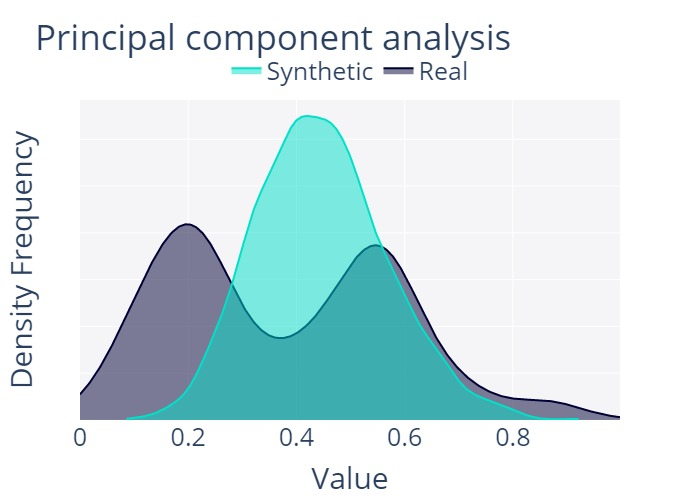
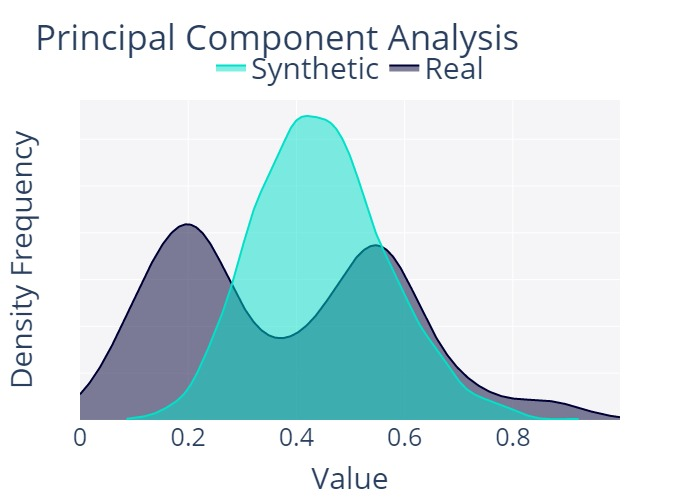
adjusted legend font

Changed region(s): [[0.27, 0.03, 0.75, 0.18]]

diff --git a/Diffusion model/graph_generate.py b/Diffusion model/graph_generate.py
@@ -55,9 +55,9 @@ column_name_map = {
     'ILP': 'Instruction-Level Parallelism',
     'intensity': 'Intensity',
     'reuse_ratio': 'Reuse Ratio',
-    'ld_coalesce': 'Load Coalesce',
-    'L2_hit_rate': 'L2 Cache Hit Rate',
-    'L1_hit_rate': 'L1 Cache Hit Rate',
+    'ld_coalesce': 'Load Coalescing',
+    'L2_hit_rate': 'L2 Hit Rate',
+    'L1_hit_rate': 'L1 Hit Rate',
     'branch_eff': 'Branch Efficiency',
     'pwr_avg': 'Average Power'
 }
@@ -77,7 +77,8 @@ fig.update_layout(
     plot_bgcolor='white', 
     paper_bgcolor='white', 
     font=dict(color='black', size=25),  
-    showlegend=False  
+    showlegend=True,
+    legend=dict(font=dict(size=20))  
 )
 
 
@@ -107,7 +108,8 @@ def fig_generator(feature):
             yanchor='bottom',
             y=1.02,
             xanchor='center',
-            x=0.5
+            x=0.5,
+            font=dict(size=30)
         ),
         yaxis=dict(
             showticklabels=False,  
@@ -131,7 +133,7 @@ sns.set_context("talk", font_scale=1.4)
 corr = synthetic_data.corr()
 plt.figure(figsize=(10, 8))
 sns.heatmap(corr, cmap='coolwarm',annot=False, cbar=False)
-plt.title('TabDDPM synthetic Data Correlation Heatmap', fontsize=25)
+plt.title('DDM Data Correlation Heatmap', fontsize=25)
 plt.tight_layout(rect=[0, 0, 1, 0.95]) 
 plt.savefig('figure/TabDDPM synthetic Data Correlation Heatmap.jpg')
 plt.close()

diff --git a/CTGAN Synthesizer/graph_generate.py b/CTGAN Synthesizer/graph_generate.py
@@ -17,9 +17,9 @@ column_name_map = {
     'ILP': 'Instruction-Level Parallelism',
     'intensity': 'Intensity',
     'reuse_ratio': 'Reuse Ratio',
-    'ld_coalesce': 'Load Coalescence',
-    'L2_hit_rate': 'L2 Cache Hit Rate',
-    'L1_hit_rate': 'L1 Cache Hit Rate',
+    'ld_coalesce': 'Load Coalescing',
+    'L2_hit_rate': 'L2 Hit Rate',
+    'L1_hit_rate': 'L1 Hit Rate',
     'branch_eff': 'Branch Efficiency',
     'pwr_avg': 'Average Power'
 }
@@ -85,7 +85,8 @@ def fig_generator(feature):
             yanchor='bottom',
             y=1.02,
             xanchor='center',
-            x=0.5
+            x=0.5,
+            font=dict(size=30),
         ),
         yaxis=dict(
             showticklabels=False,  
@@ -116,7 +117,7 @@ plt.close()
 corr = synthetic_data.corr()
 plt.figure(figsize=(10, 8))
 sns.heatmap(corr, cmap='coolwarm',annot=False, cbar=False)
-plt.title('CTGAN Synthetic Data Correlation Heatmap', fontsize=25)
+plt.title('GAN Data Correlation Heatmap', fontsize=25)
 plt.tight_layout(rect=[0, 0, 1, 0.95])  
 plt.savefig('ctganfigure/CTGAN_Synthetic_Data_Correlation_Heatmap_Adjusted.jpg')
 plt.close()

diff --git a/CTGAN Synthesizer/pca_graph.py b/CTGAN Synthesizer/pca_graph.py
@@ -51,7 +51,7 @@ def fig_generator(feature):
         column_name=feature
                 )
     fig.update_layout(
-        title="Principal component analysis",
+        title="Principal Component Analysis",
         showlegend=True,
         font=dict(size=25),
         legend=dict(
@@ -59,7 +59,8 @@ def fig_generator(feature):
             yanchor='bottom',
             y=1.02,
             xanchor='center',
-            x=0.5
+            x=0.5,
+            font=dict(size=30)
         ),
         yaxis=dict(
             showticklabels=False,  

diff --git a/TVAE Synthesizer/pca_graph.py b/TVAE Synthesizer/pca_graph.py
@@ -50,7 +50,7 @@ def fig_generator(feature):
         column_name=feature
                 )
     fig.update_layout(
-        title="Principal component analysis",
+        title="Principal Component Analysis",
         showlegend=True,
         font=dict(size=25),
         legend=dict(

diff --git a/Diffusion model/pca_graph.py b/Diffusion model/pca_graph.py
@@ -58,7 +58,8 @@ def fig_generator(feature):
             yanchor='bottom',
             y=1.02,
             xanchor='center',
-            x=0.5
+            x=0.5,
+            font=dict(size=30)
         ),
         yaxis=dict(
             showticklabels=False,  
